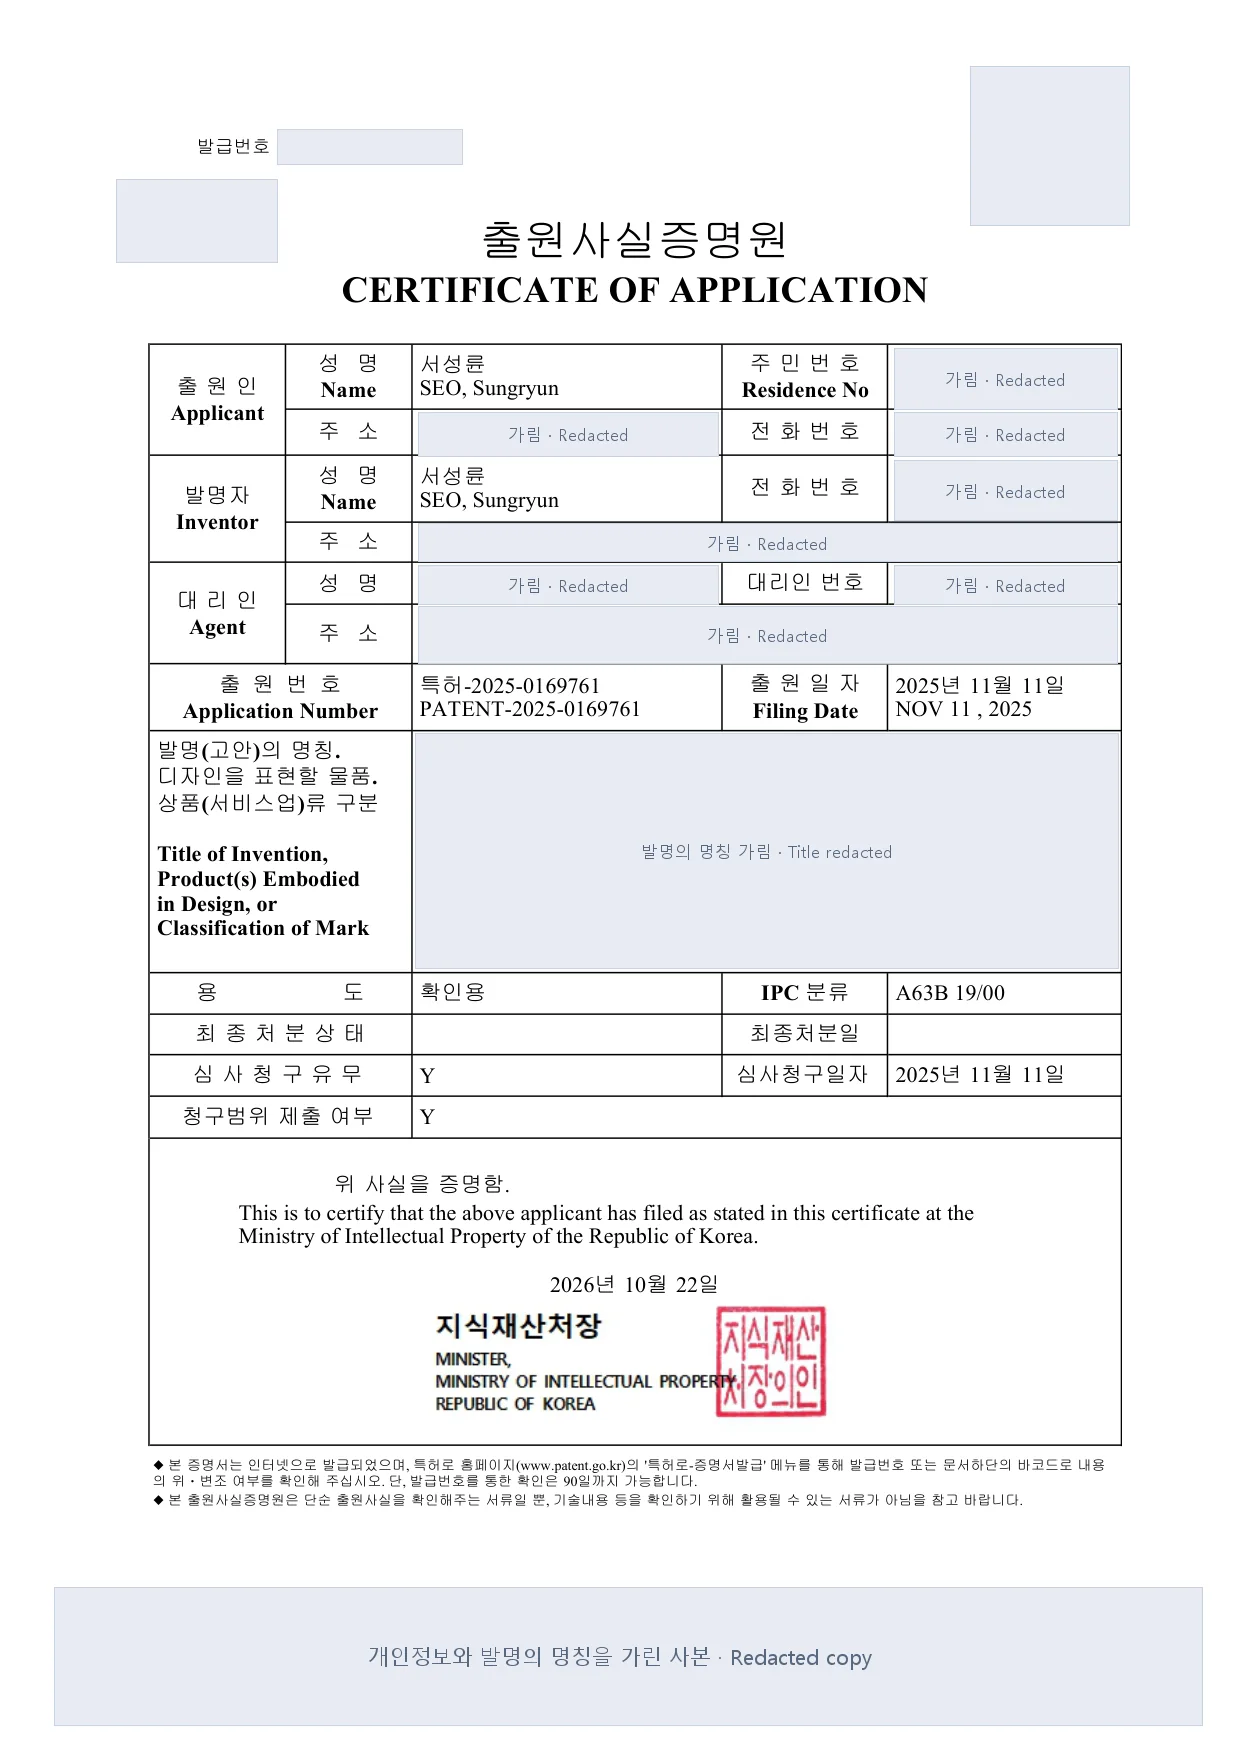
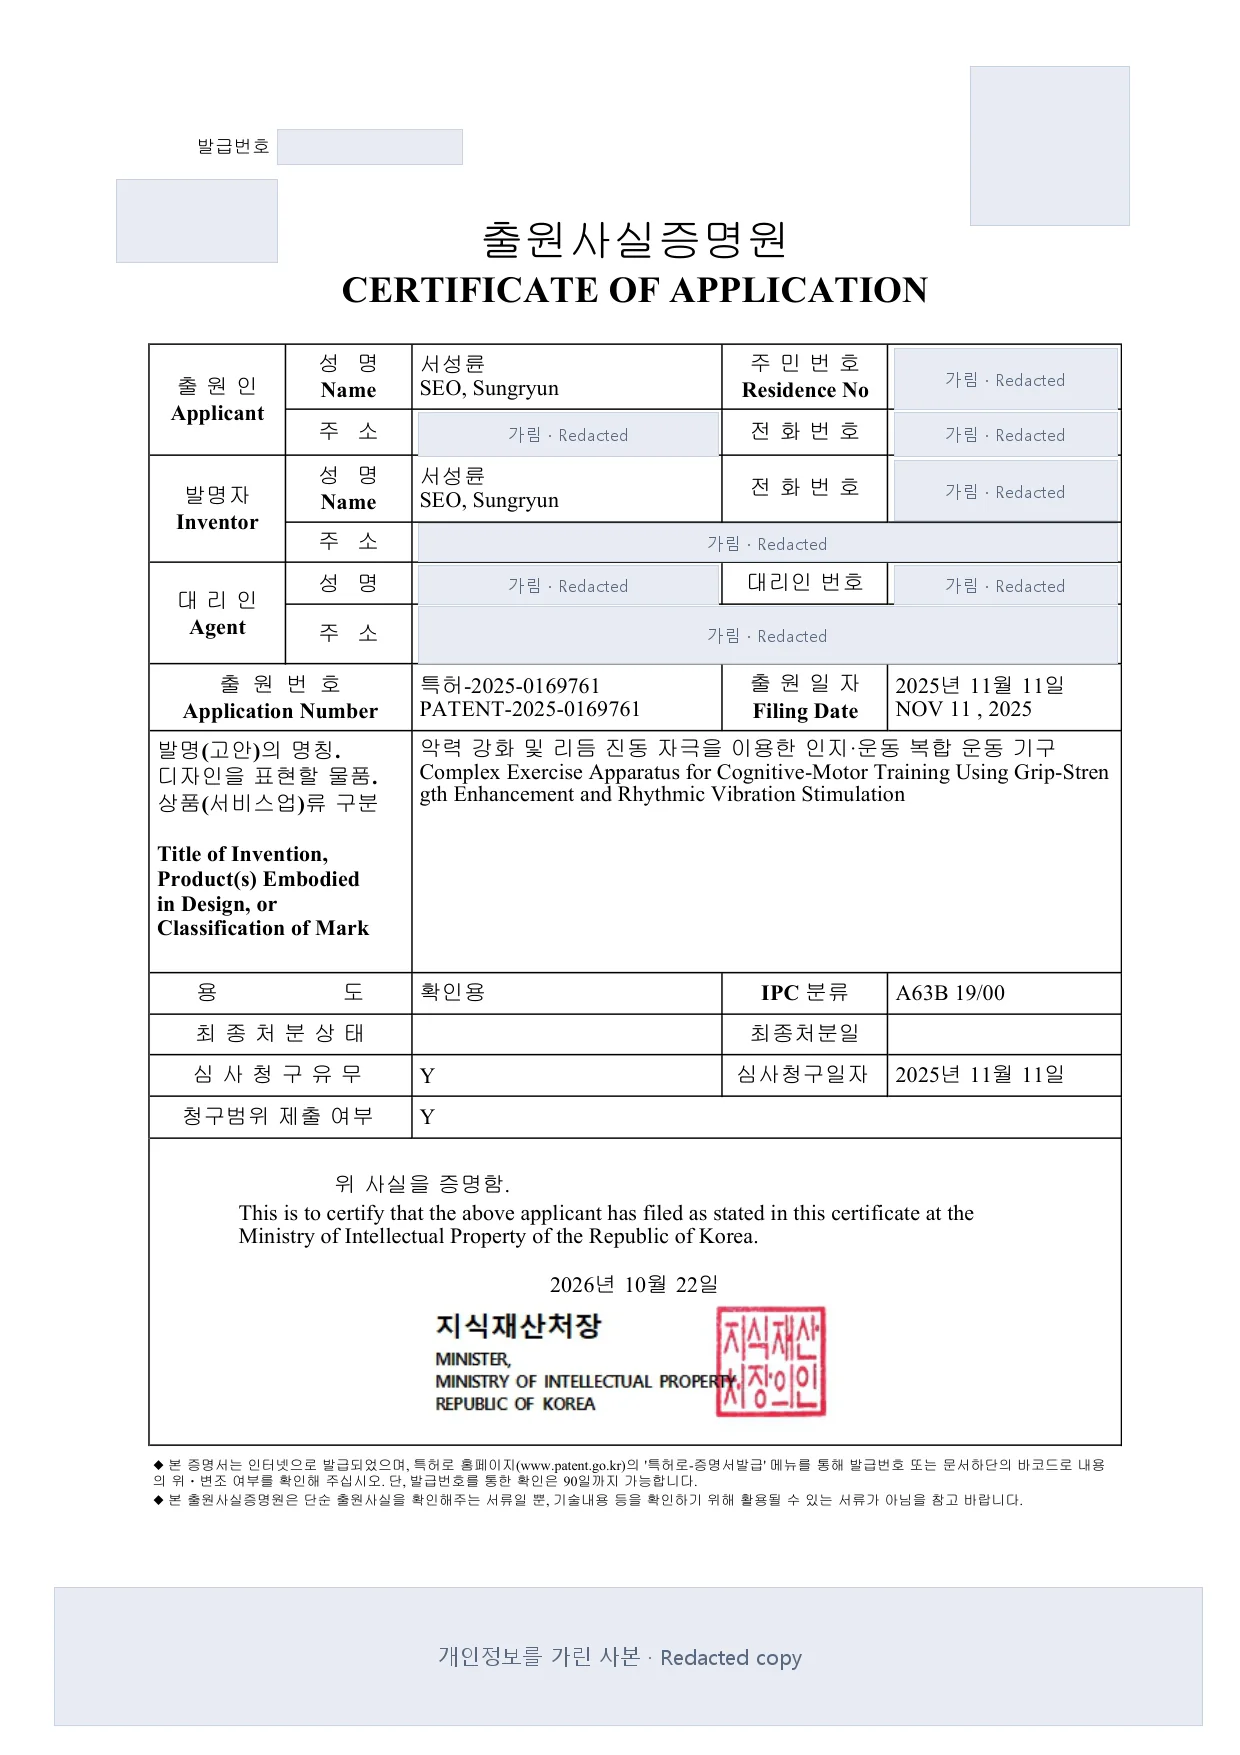
Update site

diff --git a/en/about.html b/en/about.html
@@ -99,7 +99,7 @@
               <li><span class="ab-pat"><b>10-2026-0112080</b><span>2026.06.19</span><a class="ab-link" href="../img/patent-cert-2026-0112080.webp" target="_blank" rel="noopener">View certificate</a></span></li>
               <li><span class="ab-pat"><b>10-2026-0112861</b><span>2026.06.20</span><a class="ab-link" href="../img/patent-cert-2026-0112861.webp" target="_blank" rel="noopener">View certificate</a></span></li>
               </ol>
-              <span class="ab-note">Official certificates of application (Korean and English). Personal details and invention titles are redacted.</span></dd></div>
+              <span class="ab-note">Official certificates of application (Korean and English). Personal details are redacted.</span></dd></div>
           </dl>
         </div>
       </div>

diff --git a/about.html b/about.html
@@ -99,7 +99,7 @@
               <li><span class="ab-pat"><b>10-2026-0112080</b><span>2026.06.19</span><a class="ab-link" href="img/patent-cert-2026-0112080.webp" target="_blank" rel="noopener">출원사실증명원 보기</a></span></li>
               <li><span class="ab-pat"><b>10-2026-0112861</b><span>2026.06.20</span><a class="ab-link" href="img/patent-cert-2026-0112861.webp" target="_blank" rel="noopener">출원사실증명원 보기</a></span></li>
               </ol>
-              <span class="ab-note">증명원의 개인정보와 발명의 명칭은 가렸습니다.</span></dd></div>
+              <span class="ab-note">증명원의 개인정보는 가렸습니다.</span></dd></div>
           </dl>
         </div>
       </div>

diff --git a/en/technology.html b/en/technology.html
@@ -376,7 +376,7 @@
             </tbody>
           </table>
         </div>
-        <p class="fine">Official certificates of application (Korean and English). Personal details and invention titles are redacted. Drawings and claims are not shown because they have not been published.</p>
+        <p class="fine">Official certificates of application (Korean and English). Personal details are redacted. Drawings and claims are not shown because they have not been published.</p>
       </div>
     </section>
 

diff --git a/technology.html b/technology.html
@@ -376,7 +376,7 @@
             </tbody>
           </table>
         </div>
-        <p class="fine">증명원의 개인정보와 발명의 명칭은 가렸습니다. 도면과 청구항은 공개 전이라 싣지 않았습니다.</p>
+        <p class="fine">증명원의 개인정보는 가렸습니다. 도면과 청구항은 공개 전이라 싣지 않았습니다.</p>
       </div>
     </section>
 
